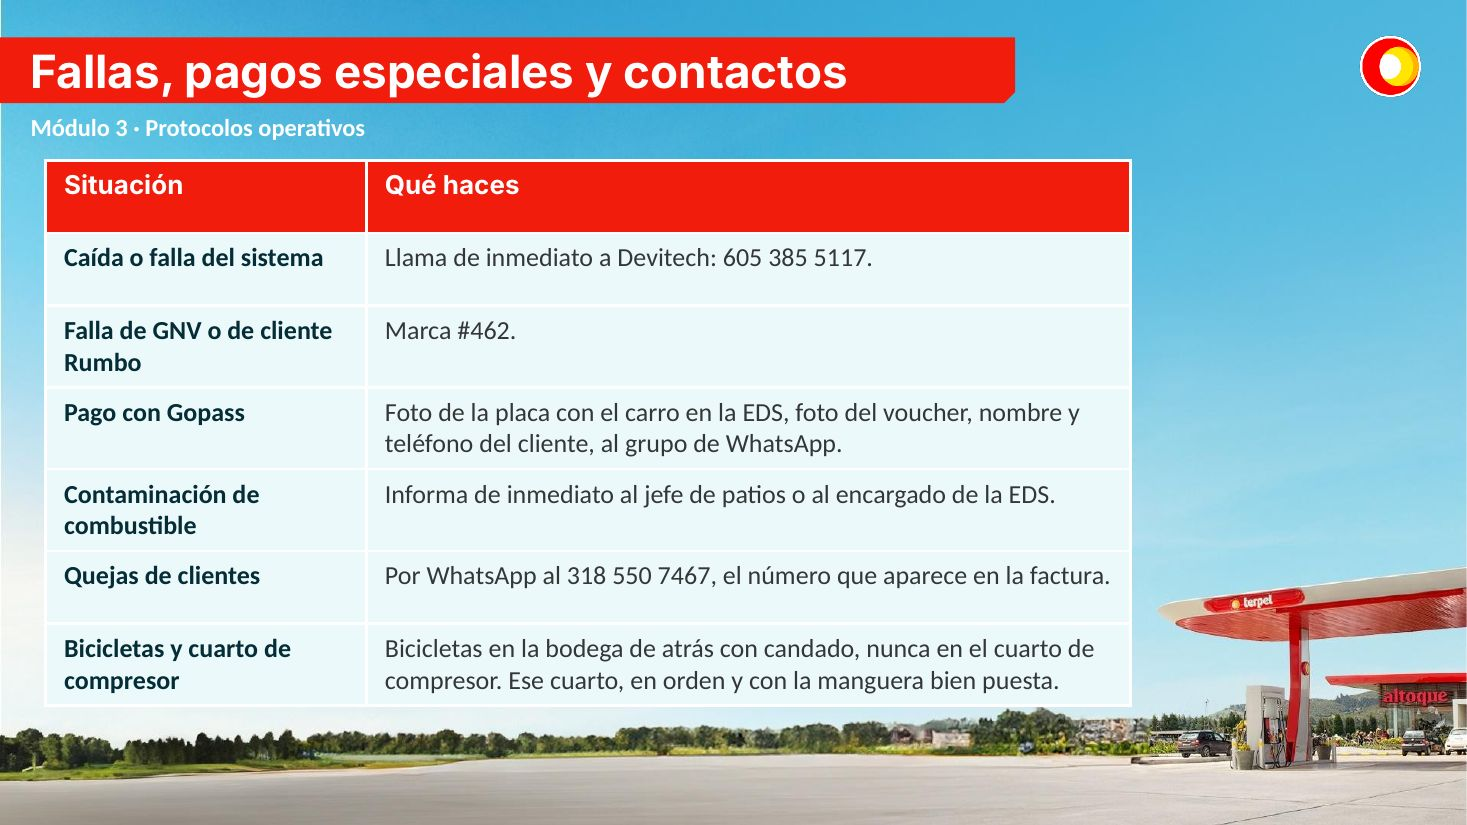
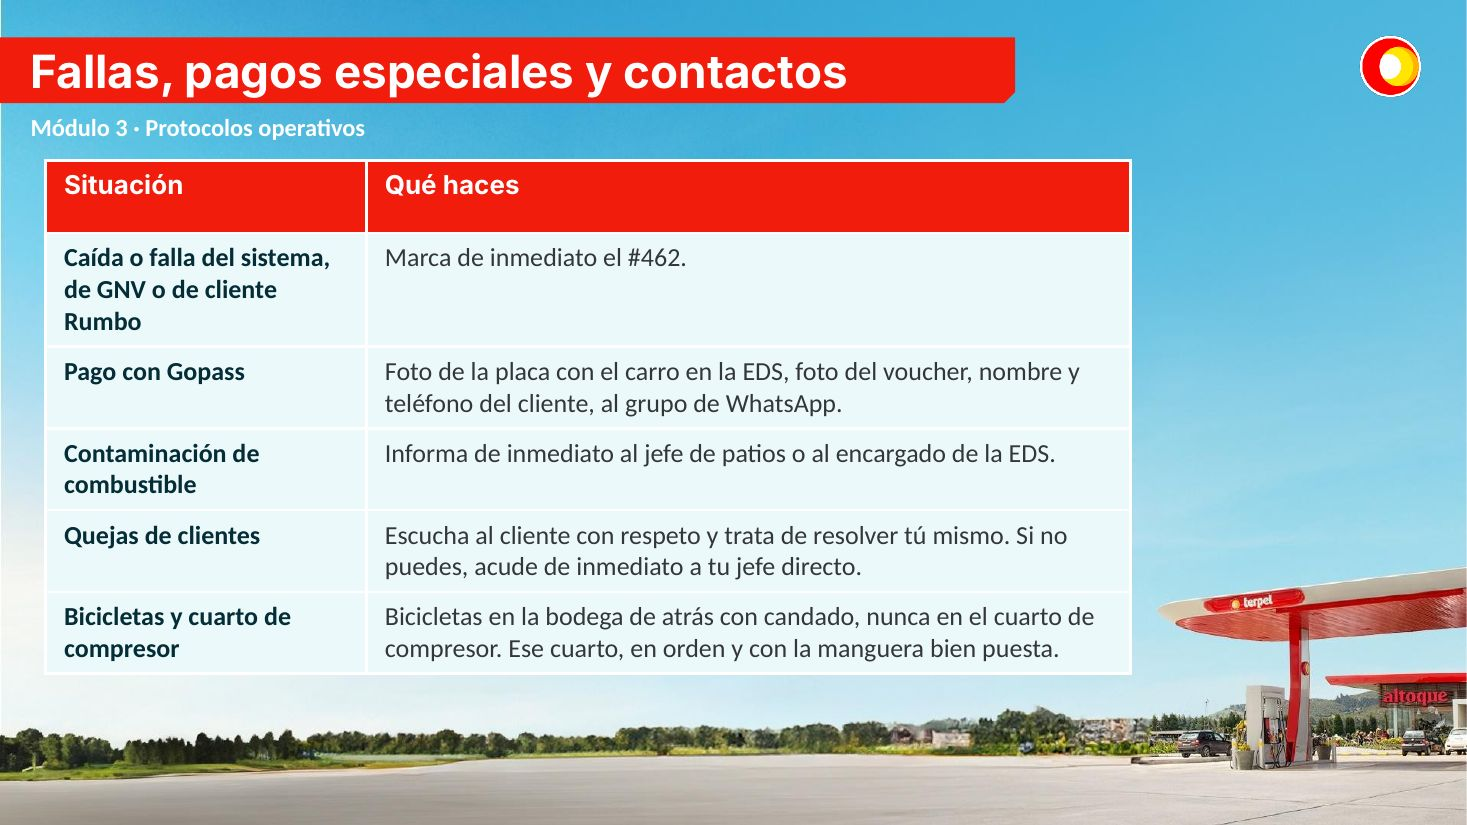
Inducción: #462 para fallas, manejo de quejas, autorización de lectura y RIT en QR
Claude-Session: https://claude.ai/code/session_01BHd7aSP7BJ5TxykRrPvLiy

Changed region(s): [[0.0307, 0.3333, 0.7975, 0.8788], [0.0307, 0.5455, 0.2147, 0.8485], [0.2454, 0.303, 0.5828, 0.3333]]

diff --git a/induccion/index.html b/induccion/index.html
@@ -119,7 +119,7 @@ table.res th{font-family:var(--display);font-weight:800;color:var(--muted);font-
     <div class="stage"><img id="slide" src="slides/s-01.jpg" alt="Diapositiva 1 de la inducción" width="1467" height="825"><video id="vid" src="protocolo_servicio.mp4" poster="video_cover.jpg" controls playsinline preload="none" hidden></video></div><p id="vidcap" class="pos" style="margin-top:8px" hidden>Video: protocolo de servicio. Toca play y fíjate en cada paso.</p>
     <div class="nav">
       <button class="btn ghost" id="prev">Anterior</button>
-      <span class="pos" id="pos">1 / 40</span>
+      <span class="pos" id="pos">1 / 41</span>
       <button class="btn ghost" id="next">Siguiente</button>
     </div>
     <div class="dots" id="dots" aria-label="Ir a una diapositiva"></div>
@@ -156,6 +156,7 @@ table.res th{font-family:var(--display);font-weight:800;color:var(--muted);font-
           <label class="f" for="nombre">Nombre completo<input type="text" id="nombre" autocomplete="name" placeholder="Ej.: Juan Pérez"></label>
           <label class="f" for="cedula">Cédula<input type="text" id="cedula" inputmode="numeric" placeholder="Ej.: 1012345678"></label>
         </div>
+        <label class="opt" for="autoriza" style="cursor:pointer"><input type="checkbox" id="autoriza"><span><b>Autorización de lectura:</b> declaro que leí y entendí todo el documento de inducción de PLAN VE S.A.S. y que puedo consultar el Reglamento Interno de Trabajo en el código QR de la oficina.</span></label>
         <div><button class="btn" id="go" disabled>Empezar evaluación</button></div>
       </div>
     </section>
@@ -174,7 +175,7 @@ table.res th{font-family:var(--display);font-weight:800;color:var(--muted);font-
 <script>
 const $ = (id)=>document.getElementById(id);
 /* ---------- Presentación ---------- */
-const N = 40; let cur = 1;
+const N = 41; let cur = 1;
 const src = (n)=>`slides/s-${String(n).padStart(2,"0")}.jpg`;
 for(let i=1;i<=N;i++){ const b=document.createElement("button"); b.setAttribute("aria-label","Diapositiva "+i); b.addEventListener("click",()=>show(i)); $("dots").appendChild(b); }
 const VIDEO_SLIDE = 11;
@@ -264,9 +265,9 @@ const BANK = {
   ["Un cliente quiere pagar con tarjeta Nequi. ¿Qué haces?", ["No se acepta, salvo autorización de la gerencia", "La acepto siempre", "Le cobro un recargo", "La paso como efectivo"], "Así lo dicen los deberes y protocolos."],
   ["Un cliente te pide que le saques efectivo con el datáfono. ¿Qué haces?", ["No lo hago: están prohibidos los retiros y adelantos, y aviso a la administración", "Lo hago si muestra la cédula", "Lo hago hasta $200.000", "Lo hago si insiste"], "Exponen al promotor a investigación de la Fiscalía."],
   ["Venta de urea a un cliente Rumbo. ¿Cuál es el procedimiento?", ["Despacho exacto, factura inmediata revisada y firmada por el conductor antes de salir, y cierre inmediato", "Cerrar la venta al final del turno", "Sin factura si es cliente frecuente", "Dejar la venta abierta"], "Ninguna venta Rumbo sin factura firmada."],
-  ["Se cae el sistema. ¿A quién llamas?", ["A Devitech: 605 385 5117", "Al 123", "A la ARL", "A Prosegur"], "Para fallas de GNV o de clientes Rumbo, marcas #462."],
+  ["Se cae el sistema o falla el GNV. ¿Qué haces?", ["Marco de inmediato el #462", "Llamo al 123", "Llamo a la ARL", "Llamo a Prosegur"], "Para fallas de GNV o de clientes Rumbo, marcas #462."],
   ["Hay una contaminación de combustible. ¿Qué haces?", ["Informo de inmediato al jefe de patios o al encargado de la EDS", "Sigo despachando", "Lo arreglo yo solo", "Espero al día siguiente"], "Las contaminaciones se reportan de inmediato."],
-  ["Un cliente quiere poner una queja. ¿Por dónde la envía?", ["Por WhatsApp al 318 550 7467, el número que aparece en la factura", "Por correo a Terpel", "A mi celular personal", "No se reciben quejas"], "Ese número aparece en la factura."],
+  ["Un cliente tiene una queja. ¿Qué haces?", ["Lo escucho con respeto y trato de resolver; si no puedo, acudo a mi jefe directo", "Le digo que no es mi problema", "Discuto con él hasta que se vaya", "Lo ignoro"], "Manejar bien al cliente es parte de tu trabajo."],
   ["Un cliente paga con Gopass. ¿Qué envías al grupo de WhatsApp?", ["Foto de la placa con el carro en la EDS, foto del voucher, nombre y teléfono del cliente", "Solo el valor", "Nada", "Solo la foto del cliente"], "Si la placa no coincide con el tag, no tanqueas y reportas."]
  ],
  "Integridad y convivencia": [
@@ -322,8 +323,8 @@ function pick(){
     return {mod:x.mod, text, why, order: shuffle(opts.map((t,k)=>({t,ok:k===0})))};
   });
 }
-function validStart(){ $("go").disabled = !($("nombre").value.trim().length>3 && /\d{5,}/.test($("cedula").value)); }
-$("nombre").addEventListener("input",validStart); $("cedula").addEventListener("input",validStart);
+function validStart(){ $("go").disabled = !($("nombre").value.trim().length>3 && /\d{5,}/.test($("cedula").value) && $("autoriza").checked); }
+$("nombre").addEventListener("input",validStart); $("cedula").addEventListener("input",validStart); $("autoriza").addEventListener("change",validStart);
 $("go").addEventListener("click",()=>{ person={nombre:$("nombre").value.trim(), cedula:$("cedula").value.replace(/\D/g,"")}; $("start").hidden=true; newAttempt(); });
 $("quiz").addEventListener("change", progress);
 
@@ -368,7 +369,7 @@ $("send").addEventListener("click",()=>{
   const score=Math.round(good/TOTAL*100);
   $("bar").hidden=true;
   const now=new Date();
-  const rec={nombre:person.nombre, cedula:person.cedula, intento:attempt, puntaje:score, correctas:good, total:TOTAL, aprobado:score===100, fecha:now.toISOString(),
+  const rec={nombre:person.nombre, cedula:person.cedula, autorizaLectura:"Sí", intento:attempt, puntaje:score, correctas:good, total:TOTAL, aprobado:score===100, fecha:now.toISOString(),
     codigo: score===100 ? codeFor(person.cedula+"|"+now.toISOString().slice(0,10)+"|"+attempt) : "",
     falladas: current.filter((it,n)=>!it.order[+$("q"+n).querySelector("input:checked").value].ok).map(it=>it.text)};
   const savedP = saveResult(rec);
